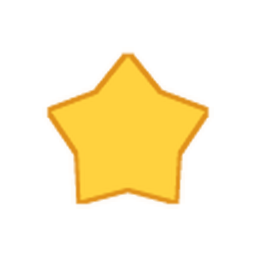
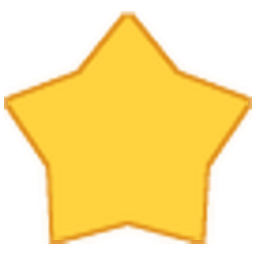
Smoke check runs on Ubuntu 24.04; Kenney star fills its box
- ubuntu-latest is now 26.04, where Playwright 1.56 can't install
  Chromium, so the live-site check failed before it ran (on main too).
- README: e2e can use an installed Chromium via CHROMIUM=.
- The star is trimmed to its shape, so it draws as big as the emoji.

Claude-Session: https://claude.ai/code/session_01LCwfxygCsgG2TbuHSTZKcR

diff --git a/README.md b/README.md
@@ -111,7 +111,7 @@ npm run lint       # ESLint
 npm run voice:lines -- en   # every line to record, with file names (voice-lines.en.csv)
 ```
 
-Browser walkthrough (needs a Playwright browser, e.g. `npx playwright install chromium`):
+Browser walkthrough (needs a Playwright browser, e.g. `npx playwright install chromium`, or an installed Chromium named by `CHROMIUM=/path/to/chromium`):
 
 ```bash
 npm run e2e:local                       # builds, serves the build itself, runs every walkthrough at phone,

diff --git a/src/assets/images/CREDITS.md b/src/assets/images/CREDITS.md
@@ -5,4 +5,4 @@ required, but it is kind.
 
 | File | Pack | Source file | Changes |
 |---|---|---|---|
-| `emoji/2b50.png` (⭐) | [Game Icons](https://kenney.nl/assets/game-icons) | `PNG/White/2x/star.png` | coloured yellow with an orange outline, 256 px |
+| `emoji/2b50.png` (⭐) | [Game Icons](https://kenney.nl/assets/game-icons) | `PNG/White/2x/star.png` | trimmed, coloured yellow with an orange outline, 256 px |
